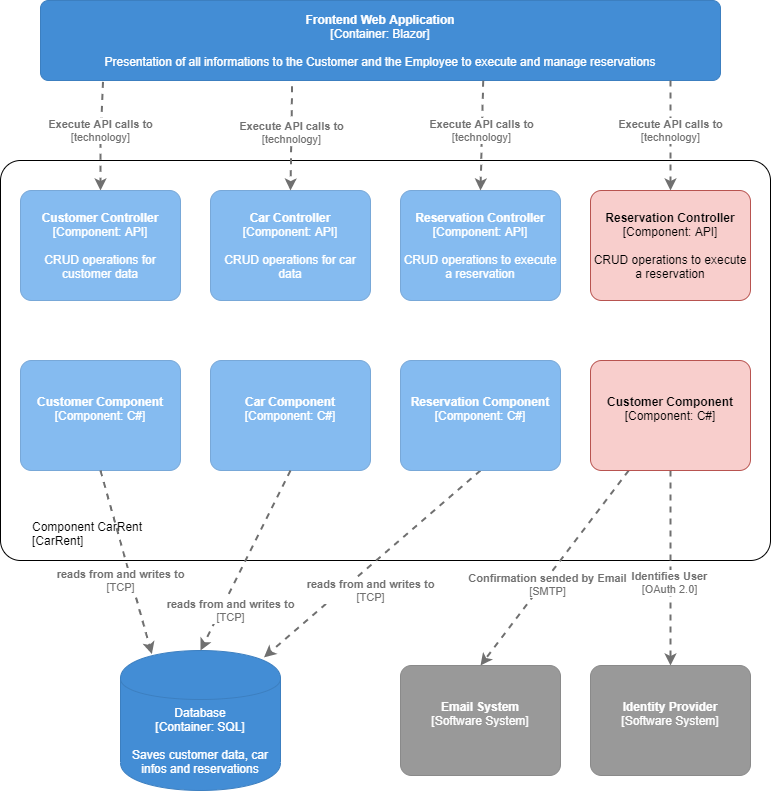
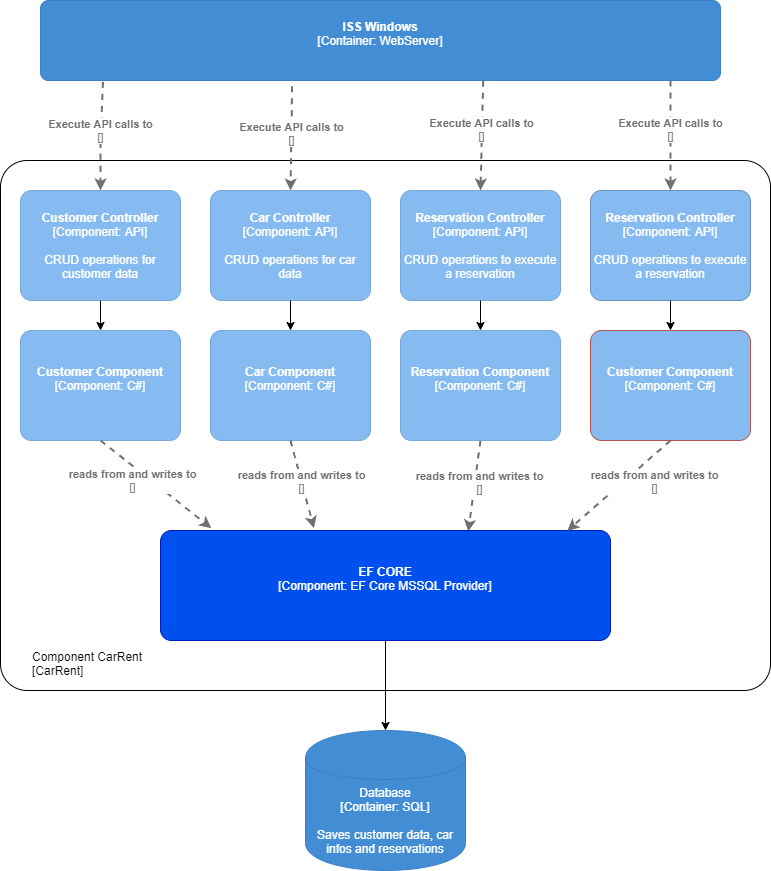
Added Diagramms

diff --git a/README.md b/README.md
@@ -48,8 +48,21 @@
 
 ## 4+1 Views
 
-### Deployment View  [Deployment_View.drawio](docs\Deployment_View.drawio) 
+### Deployment View
+
+![](./docs\Deployment_View.png)
 
 ### Logical View
 
+![](./docs\Logical_View-Customer.png)
+
+![](./docs\Logical_View-Car.png)
+
+![](./docs\Logical_View-CarClass.png)
+
+![](./docs\Logical_View-Reservation.png)
+
 ### Implementation View
+
+![](C:\visual\SOFTWARE_ARCH_DESIGN\CarRentSystem\docs\Implementation_View.drawio.svg)
+
